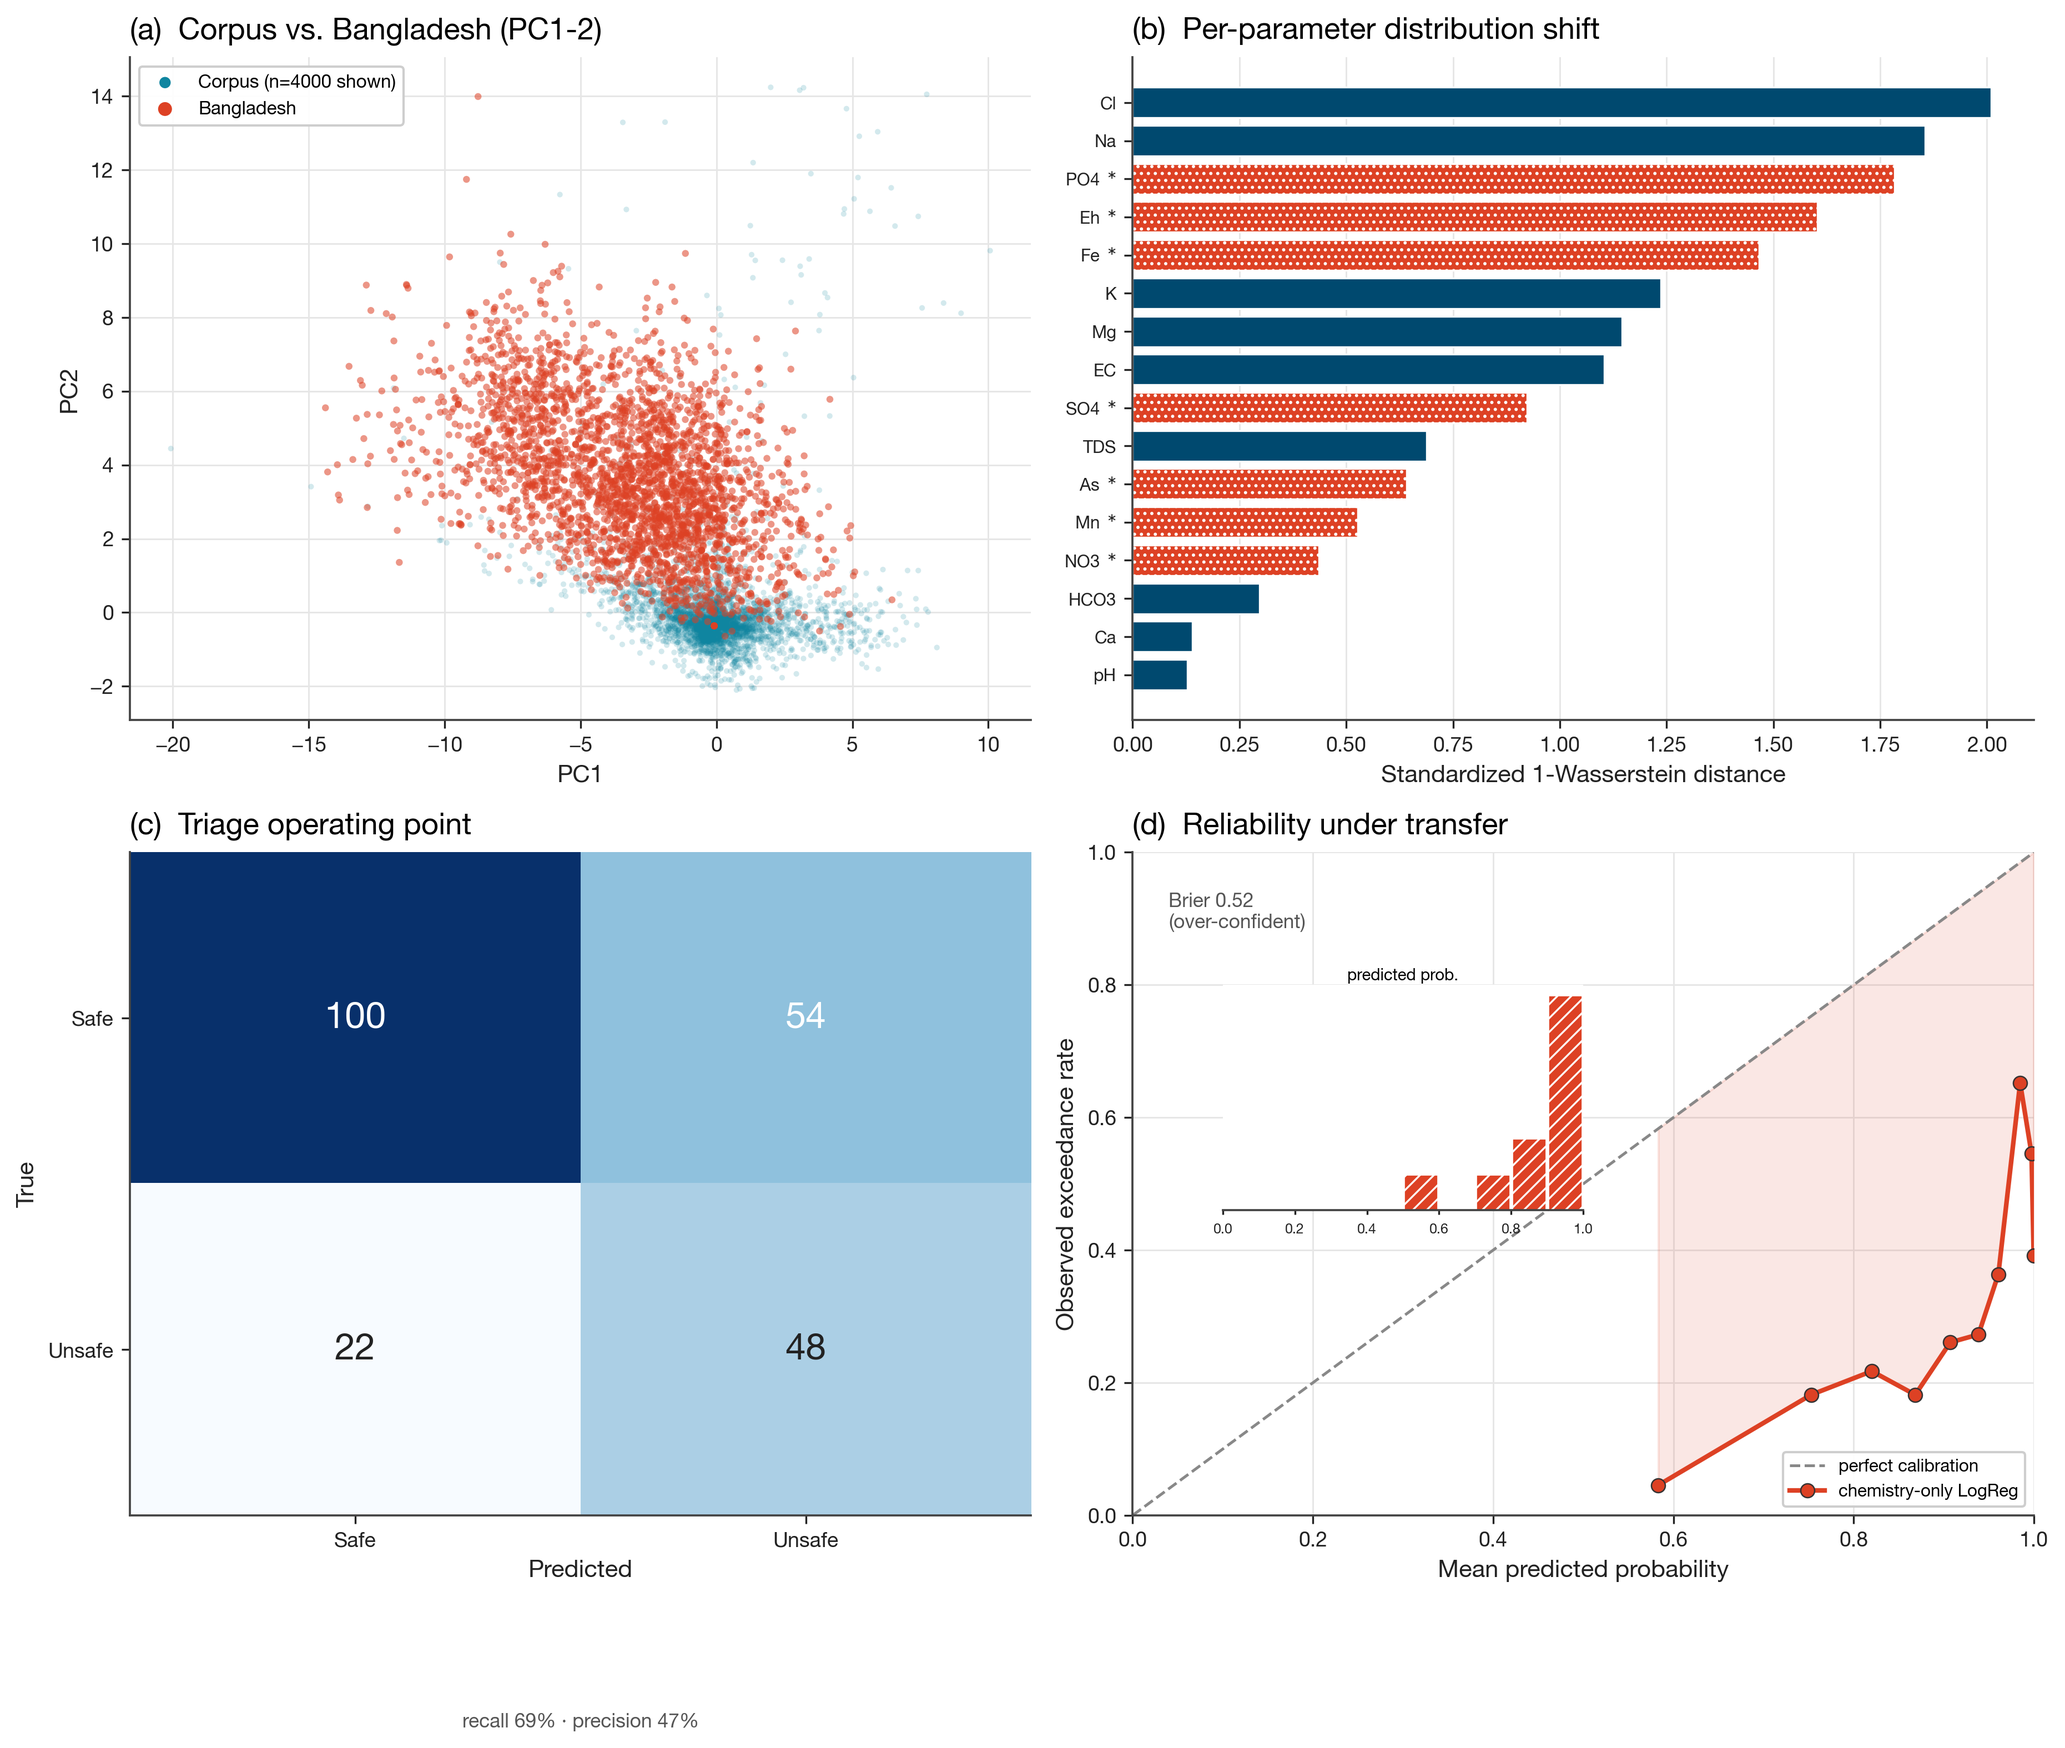
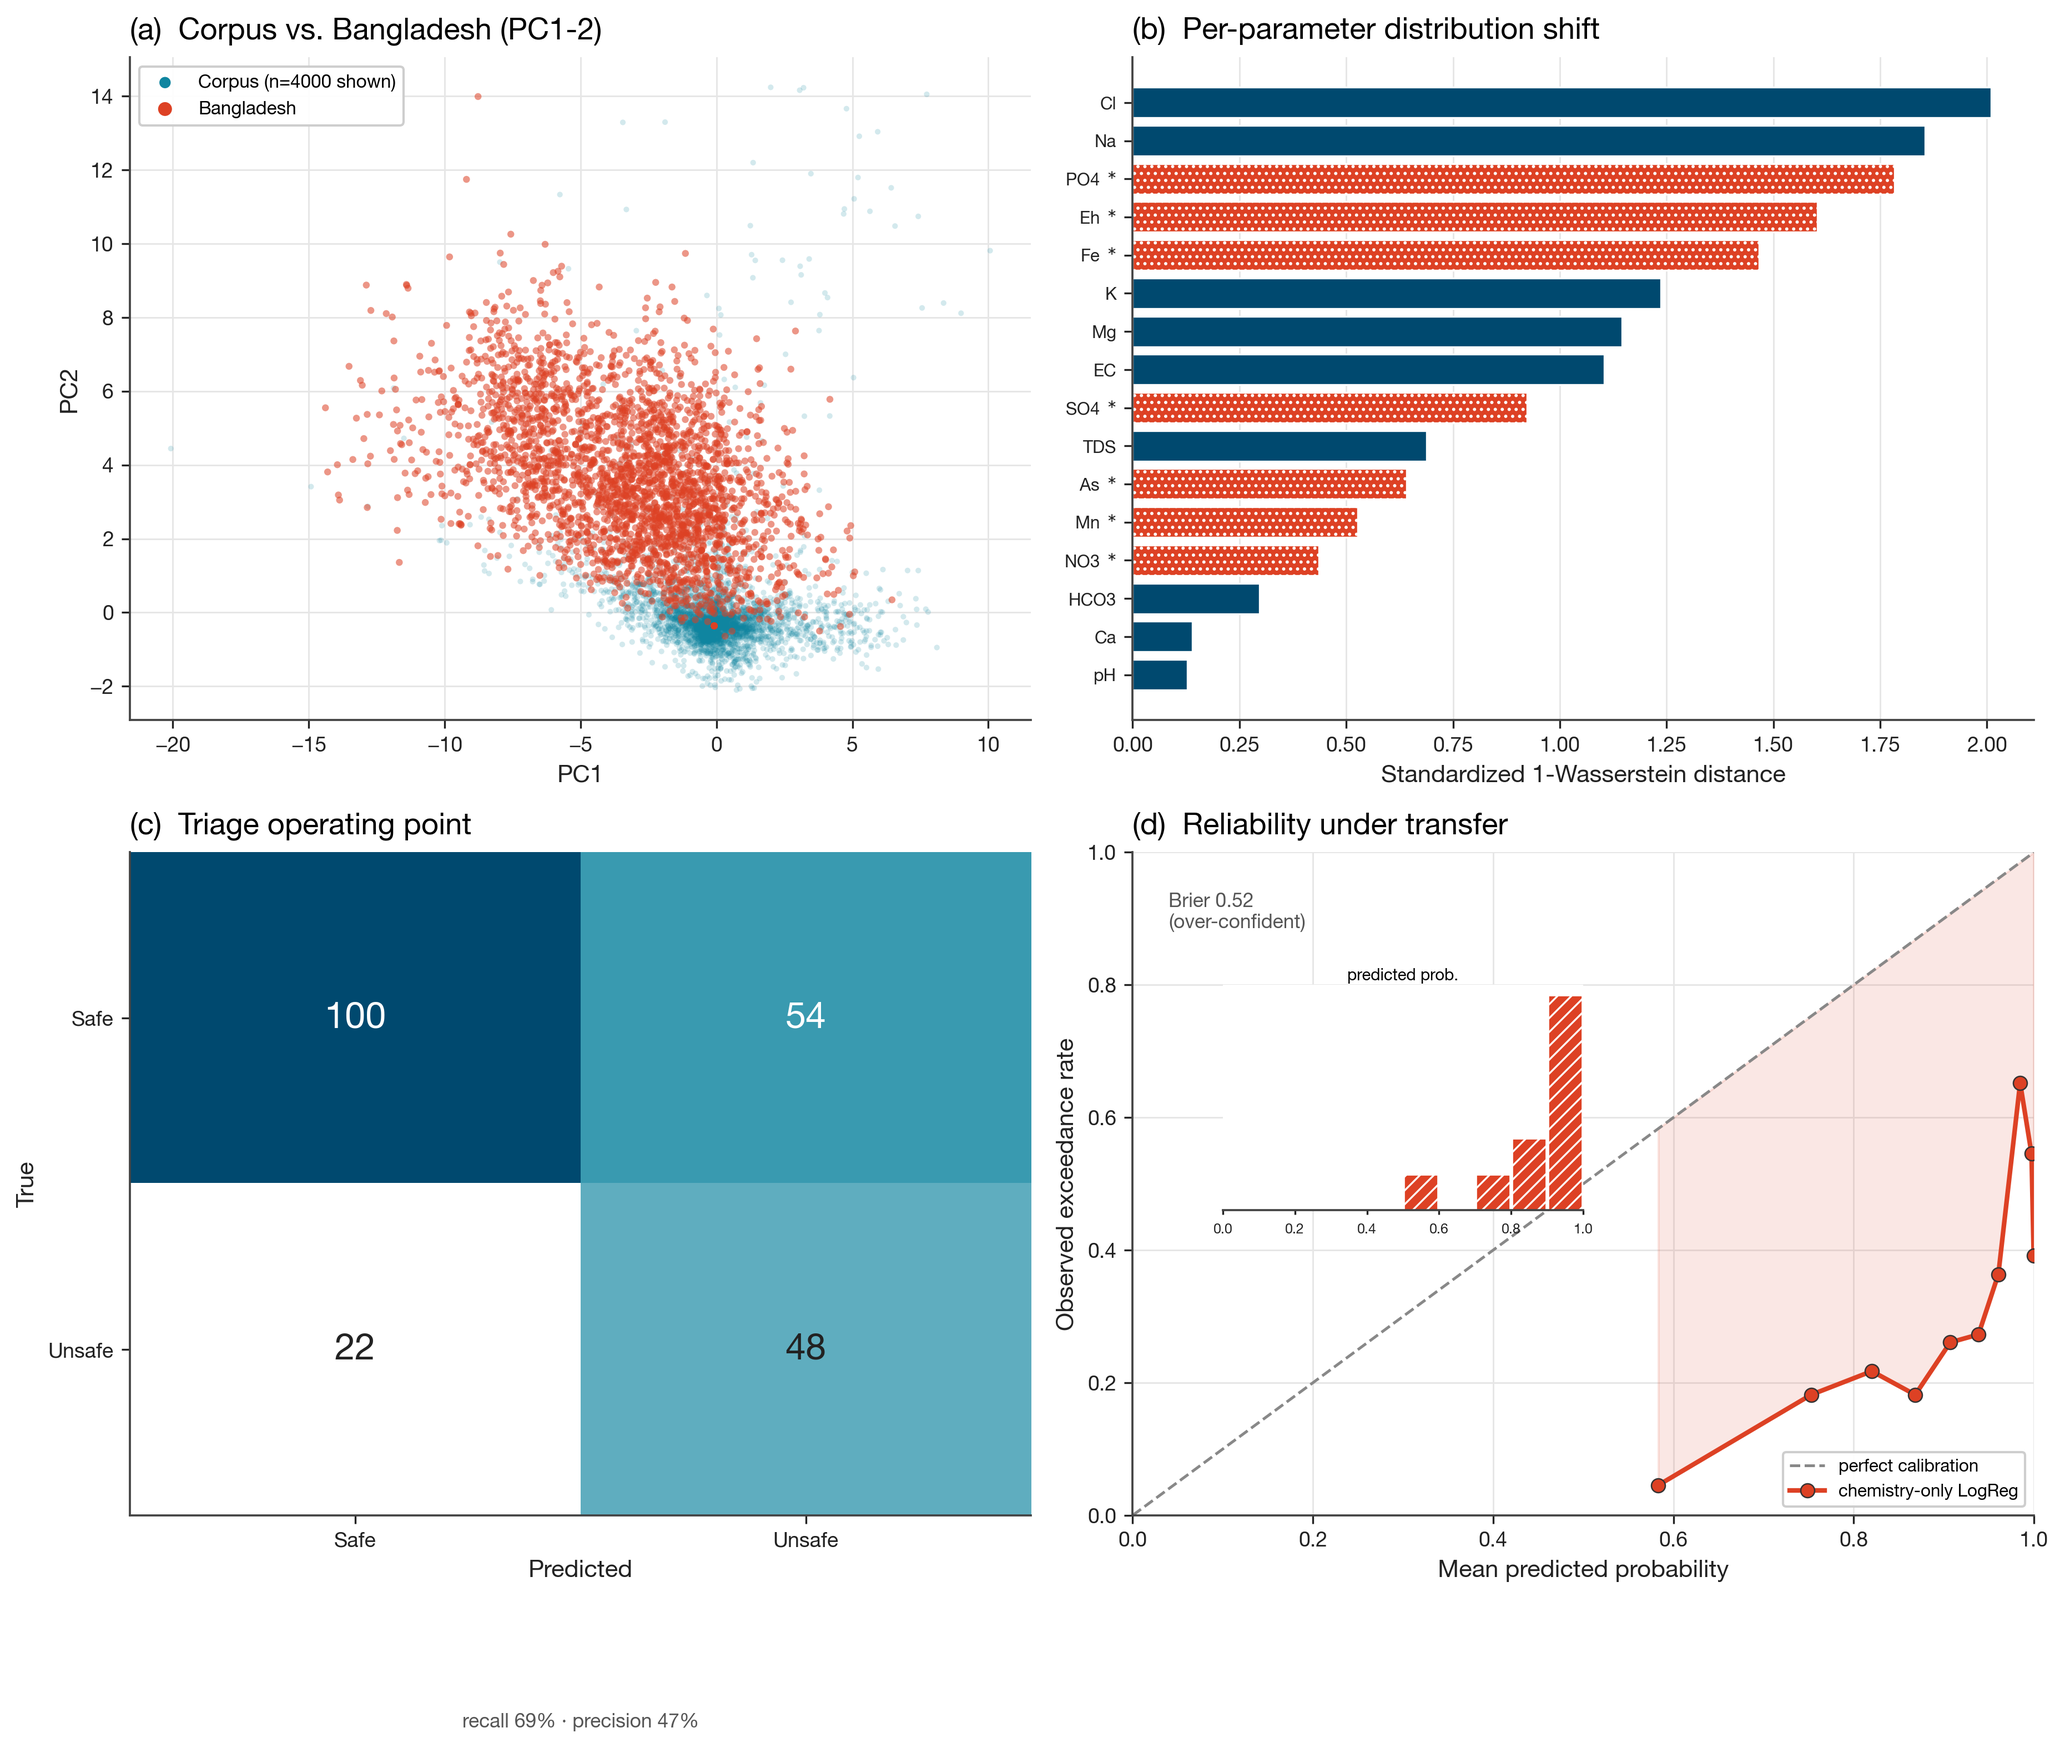
Fig 4(c): theme-matched colormap (white->teal->navy) instead of generic Blues

Changed region(s): [[0.0624, 0.4668, 0.4989, 0.8714]]

diff --git a/src/41_composite_figures.py b/src/41_composite_figures.py
@@ -258,9 +258,12 @@ def draw_w1(ax):
 
 
 def draw_confusion(ax):
+    from matplotlib.colors import LinearSegmentedColormap
     cm = json.load(open("results/calibration_logreg_as_chemonly.json"))["avg_confusion_at_f1_best"]
     M = np.array([[cm["tn"], cm["fp"]], [cm["fn"], cm["tp"]]])
-    im = ax.imshow(M, cmap="Blues", aspect="auto")  # fill cell width like other panels
+    # palette-matched sequential colormap (white -> theme navy), not generic 'Blues'
+    theme_cmap = LinearSegmentedColormap.from_list("theme_navy", ["#ffffff", fs.TEAL, fs.NAVY])
+    im = ax.imshow(M, cmap=theme_cmap, aspect="auto")  # fill cell width like other panels
     for (i, j), v in np.ndenumerate(M):
         ax.text(j, i, f"{int(round(v))}", ha="center", va="center", fontsize=16,
                 fontweight="bold", color="white" if v > M.max()*0.5 else "#222")
